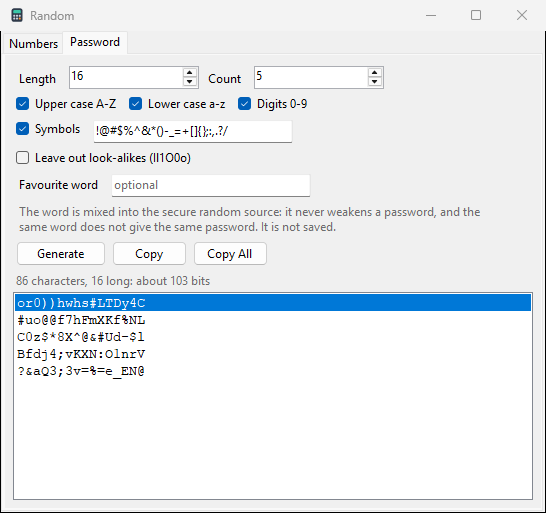
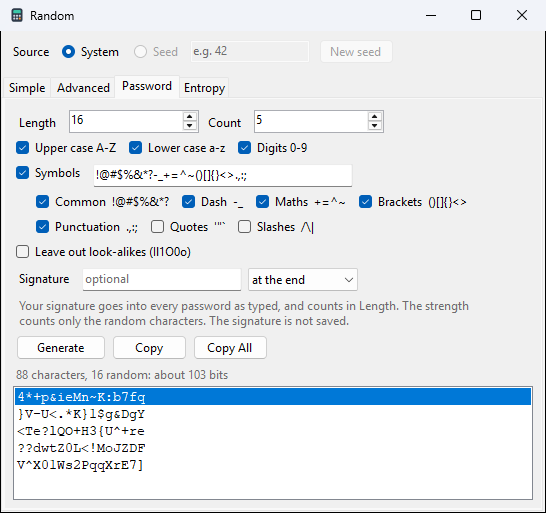
help: Random topic for seeds, shapes, Source, Advanced and Entropy
Owner 2026-11-13: the Random work is finished, update the help.
17-random now covers rands() with checked seed-42 examples, the
shaped functions with checked seed-7 examples, the Source row (Seed,
New seed, mixed entropy), the renamed Simple tab with the Sort
button, Advanced, Password with symbol groups and the signature, and
Entropy. HelpShots gives the Random window a seed engine so Seed
shows as it does in the app; all pictures regenerated.

Verified: help examples (engine 586 tests), 382 UI tests, new
pictures looked at.

diff --git a/tools/HelpShots/Program.cs b/tools/HelpShots/Program.cs
@@ -245,10 +245,10 @@ internal sealed class Shots(MainForm form, EngineSession session, string outDir,
 			await pick;
 			customize.Close();
 		}
-		// Random window: a biased coin on the Numbers tab, then the Password tab
+		// Random window: a biased coin on Simple, a right skew on Advanced, Password, ten clock pulls on Entropy
 		var randomPrefs = new RandomPrefs { Kind = "coin", Count = 6, HeadsPercent = 70, HeadWord = "Yes", TailWord = "No", Shape = "right",
 			EntropySource = "clock" };
-		using (var random = new RandomWindow(randomPrefs, _ => { }))
+		using (var random = new RandomWindow(randomPrefs, _ => { }, new SeedEngine(session.StartInfo, () => 32)))    // Seed shown on, never used
 		{
 			random.StartPosition = FormStartPosition.Manual;
 			random.Location = new Point(form.Right + 20, form.Top);

diff --git a/help/17-random.md b/help/17-random.md
@@ -1,7 +1,8 @@
 # Random
 
-Random numbers come two ways: `rand()` in any line, and the Random
-window for lists of numbers, coin flips, dice and passwords.
+Random numbers come two ways: functions such as `rand()` in any line,
+and the Random window for lists of numbers, coin flips, dice, numbers
+in a shape, passwords and a look at where randomness comes from.
 
 ## rand() in a line
 
@@ -13,7 +14,8 @@ window for lists of numbers, coin flips, dice and passwords.
 
 Whole numbers give a whole number, both ends included: `rand(1, 6)` is
 a dice roll. A fraction, or a number written with a point, gives a
-decimal: `rand(1.0, 6)` is any value from 1 to 6.
+decimal: `rand(1.0, 6)` is any value from 1 to 6. Decimals have as many
+digits as the precision.
 
 ```calc
 rand(1, 6)
@@ -27,32 +29,101 @@ roll(n)=rand(1, n)
   `rand(1, 6)+1` shows `4+1`.
 - Use Expression (click the line) brings back `rand(...)`, which draws
   again; Insert Result (Shift+click) takes the number already drawn.
-- `rands(42)` sets the seed: the draws after it are the same each time
-  you give that seed. `rands()` makes them unpredictable again.
-- rand() is for games and samples. For passwords use the Password tab,
-  which uses the system's secure generator.
+- rand() is for games, samples and tests. For passwords use the
+  Password tab, which uses the system's secure generator.
+
+## Seeds
+
+`rands(seed)` makes the draws after it repeat: the same seed gives the
+same numbers, in any window and on any computer. `rands()` makes them
+unpredictable again.
+
+```calc
+rands(42)       => Seed 42
+rand(1, 6)      => 4
+rand(1, 6)      => 4
+rand(1, 6)      => 6
+rands(42)       => Seed 42
+rand(1, 6)      => 4
+```
+
+A seed is a number (`42`, `-7.5`). A short seed is easy to guess, so a
+seed is for repeating draws, never for secrets.
+
+## Numbers in a shape
+
+`rand()` gives every value the same chance. These give some values
+more often than others:
+
+| you type | shape |
+|---|---|
+| `randbeta(a, b)` | Beta: a and b above 1 make a hump, below 1 pile up at both ends |
+| `randtri(peak)` | a triangle rising to the peak |
+| `randexp(rate)` | falling away (rate above 0) or climbing (below 0) |
+| `randpeaks(gap)` | two humps; gap from 0 (together) to 1 (at the ends) |
+
+Without a range they draw from 0 to 1. Add `from, to` at the end for a
+range: whole numbers give whole numbers with both ends included, a
+point gives decimals, as with rand().
+
+```calc
+rands(7)                              => Seed 7
+randbeta(4, 4, 1, 10)                 => 8
+randtri(3, 1, 10)                     => 7
+randexp(4, 0, 100)                    => 41
+randpeaks(0.5, 1, 10)                 => 3
+round(randbeta(2, 5, 1.0, 10), 2)     => 3.17
+```
+
+`randbeta(4, 4, 1, 10)` is a bell over 1 to 10, `randbeta(2, 5, ...)`
+leans to the small end, `randbeta(5, 2, ...)` to the large end and
+`randbeta(0.5, 0.5, ...)` keeps away from the middle. In RPN give all
+four (or three) numbers: `2 5 1 10 randbeta`.
 
 ## The Random window
 
-Tools > Random... (it can go on the ribbon too).
+Tools > Random... (it can go on the ribbon too). It has four tabs:
+Simple, Advanced, Password and Entropy.
 
-![The Random window](img/random-numbers.light.png)
+### Source
 
-**Numbers** tab:
+The row above the tabs chooses where the numbers come from:
+
+- **System**: the system's secure generator, different every time.
+  The window opens with it.
+- **Seed**: type a number, or press **New seed**. Simple and Advanced
+  then give the same list each time for the same seed: exactly what
+  `rands(seed)` and the tab's Insert Command line, typed that many
+  times in Input, give at the same precision. The first seeded draw
+  takes a second or so.
+- **New seed** fills the box with a 128-bit number (39 digits) from
+  System; on the Entropy tab it takes one from the source chosen there
+  instead. Note it down to draw the same numbers again.
+- The Password tab always uses System: Seed is greyed out there and
+  comes back on the other tabs.
+- **System + entropy (N bits)** shows while values from the Entropy
+  tab are mixed in.
+
+The seed is never saved.
+
+### Simple
+
+![The Simple tab](img/random-numbers.light.png)
 
 - **Whole numbers** from From to To, both included; **No repeats**
-  draws each number at most once; **Sort** puts them in order.
+  draws each number at most once.
 - **Decimals** from From to To with the decimal **Places** you choose.
 - **Coin**: **Heads %** sets the chance of a head (50 is fair).
   **Head word** and **Tail word** change what is shown, such as Yes and
   No; empty, they are Head and Tail.
 - **Dice** with any number of **Sides**; the sum is shown under the
   list.
-- **Count** draws several at once. **Copy** copies the selected lines,
-  **Copy All** every line; **Insert into Input** (or a double-click)
-  puts the selected numbers in Input.
-- **Insert Command** puts the matching `rand()` line in Input instead,
-  to run (and run again) yourself:
+- **Count** draws several at once. **Sort** puts the list in order,
+  smallest first. **Copy** copies the selected lines, **Copy All**
+  every line; **Insert into Input** (or a double-click) puts the
+  selected numbers in Input.
+- **Insert Command** puts the matching line in Input instead, to run
+  (and run again) yourself:
 
 | settings | line |
 |---|---|
@@ -62,25 +133,109 @@ Tools > Random... (it can go on the ribbon too).
 | coin, 70% | `floor(rand()+0.7)`: 1 with a 70% chance |
 | dice, 6 sides | `rand(1, 6)` |
 
-Count, No repeats and Sort are for the list only.
+With a seed, type `rands(seed)` in Input first to get the window's
+numbers.
 
-**Password** tab:
+### Advanced
+
+![The Advanced tab](img/random-advanced.light.png)
+
+Draws numbers that follow a shape. Pick the **Shape**; the picture on
+the right draws it over From to To, and after **Generate** the
+results' bars are drawn over it, so you can see they follow it. The
+line under the buttons says what the shape does, and after Generate
+the mean, lowest and highest value.
+
+| shape | most values |
+|---|---|
+| Flat | anywhere: every value as likely |
+| Bell, Narrow bell | near the middle |
+| Right skew | small, with a long tail to the right |
+| Left skew | large, with a long tail to the left |
+| Triangle | near **Peak at** |
+| U shape | near both ends |
+| Two peaks | in two humps |
+| Rising, Falling | the larger, or the smaller, the more often |
+| Decay, Growth | very near From, or very near To |
+| Custom | as Beta(**a**, **b**) gives |
+
+- **Strength** (1 to 10, 5 to start) sets how strong the shape is: how
+  narrow the bell, how far a skew leans, how deep the dip of the U, how
+  far apart the two peaks, how steep a slope.
+- **Whole numbers** gives each number from From to To its own slot,
+  both ends included; **Decimals** with **Places**.
+- **Count** goes up to 10000, enough for the bars to show the shape.
+- Sort, Copy, Copy All and Insert into Input work as on Simple.
+  **Insert Command** gives the function that draws the same way, at
+  full precision, such as `randbeta(4, 4, 1, 10)` or
+  `round(randexp(-4, 1.0, 10), 2)`.
+
+### Password
 
 ![The Password tab](img/random-password.light.png)
 
-- **Length**, and the kinds of characters: upper case, lower case,
-  digits, symbols (edit the symbol list if a site allows only some).
-  Each chosen kind appears at least once.
+- **Length**, **Count**, and the kinds of characters: upper case,
+  lower case, digits, symbols. Each chosen kind appears at least once.
+- The symbol groups tick their symbols into the list and untick them
+  out of it; you can also edit the list by hand, for a site that
+  allows only some symbols. Quotes and Slashes start unticked, since
+  many sites refuse them.
 - **Leave out look-alikes** drops `I l 1 O 0 o`.
-- **Favourite word** is mixed into the secure random source: it can
-  never make a password weaker, but the same word does not give the
-  same password again.
-- The line under the list shows the strength in bits; 80 or more is
-  strong.
+- **Signature**: your own mark, written into every password as you
+  typed it, at the end, at the start or anywhere. It counts in Length.
+  The signature is never saved.
+- The line under the buttons shows the strength: length times log2 of
+  the number of characters to choose from, in bits, counting only the
+  random characters (anyone who knows your signature knows that part).
+  80 bits or more is strong.
 - Double-click or **Copy** copies one password, **Copy All** every
   one. A copied password is kept out of the Windows clipboard history
-  and is wiped from the clipboard after 30 seconds (and when SoftCalc
-  closes).
+  and cloud clipboard, and is wiped from the clipboard after 30
+  seconds (and when SoftCalc closes).
+
+### Entropy
+
+![The Entropy tab](img/random-entropy.light.png)
+
+Entropy is the unpredictable part a random number grows from. This tab
+lets you get values from different sources side by side and see how
+random they really are.
+
+| source | what it gives |
+|---|---|
+| System (Windows CNG) | the output of Windows' generator (AES-CTR-DRBG, NIST SP 800-90A) |
+| TPM 2.0 chip | the output of the generator in the computer's TPM chip |
+| CPU timing jitter | raw: 1024 timings of a small task, which wobble |
+| Clock | raw: the time in 100 ns ticks, the classic weak seed |
+| GUID v4 | 122 random bits from the system generator |
+| Mouse movement | raw: positions and times as you move the mouse in the box |
+| Key timing | raw: the keys and the times between them as you type in the box |
+| Dice rolls | raw: results of real dice you type in, 1 to 6 |
+| NIST Randomness Beacon | a public 512-bit value, new every minute |
+| drand (League of Entropy) | a public 256-bit value, new every 30 seconds |
+
+- **Get** adds one row; **Get x10** adds ten (for the beacons: the
+  last ten values). Mouse, Keys and Dice give one row from what you
+  put in.
+- Each row shows the **Raw** value, the **Seed** made from it
+  (SHA-256 of the raw bytes, cut to 128 bits), how far a number moved
+  since the row before (**Change**, for the clock), how many bits of
+  the raw value and of the seed changed, and the estimated
+  unpredictable bits (**Entropy**).
+- The clock shows why a seed must come from a good source: ten pulls
+  move by only a few ticks, yet their seeds change about 64 of 128
+  bits, just as truly random ones do. Hashing hides the pattern; it
+  adds nothing to it.
+- The beacons are public, so they count as no secret bits. They are
+  fetched from the internet only when you press Get, and the request
+  sends nothing about you.
+- **Use as Seed** puts the chosen row's seed in the Seed box.
+- **Mix into System** stirs the chosen rows (all of them when none is
+  chosen) into the system generator for every tab, Password too: each
+  draw then hashes your entropy with fresh bytes from System, so it is
+  never weaker than System alone. **Clear mix** stops it; closing the
+  window does too.
 
 Nothing drawn in the window goes to History or to a file; the lists
-are cleared when the window closes. The window keeps only its settings.
+are cleared when the window closes. The window keeps only its
+settings, never a seed, a signature or a password.

diff --git a/design/TODO.md b/design/TODO.md
@@ -400,7 +400,11 @@ ends 1:1, the drag insert line is visible enough on dark.
     protocol `draws`); New seed and the Entropy tab done (R5: sources
     side by side, Use as Seed, Mix into System). At release: README
     to list the Random window and that the beacons go on the network
-    only when asked. Then the random source (R4): Seed (through an
+    only when asked.
+  - Owner 2026-11-13: help updated (17-random rewritten: seeds with
+    checked examples, shaped functions, Source row, Simple, Advanced,
+    Password with signature, Entropy; 03-functions Random row); all
+    help pictures regenerated, new random-advanced and random-entropy. Then the random source (R4): Seed (through an
     engine of the window's own, matching rands() in Input) and Add
     entropy; Password always System. Help also to cover these.
   - Pick a topic at random from a list; add, remove and import topics

diff --git a/help/03-functions.md b/help/03-functions.md
@@ -33,7 +33,7 @@ log10(1000)           => 3
 | Finance Functions | `fv pv pmt nper` (section *Finance*) |
 | Two's Complement | `twos` `signed` |
 | Rounding | `round` `ceil` `floor` |
-| Random | `rand` `rands` (section *Random*) |
+| Random | `rand` `rands` `randbeta` `randtri` `randexp` `randpeaks` (section *Random*) |
 
 ## Angles
 
